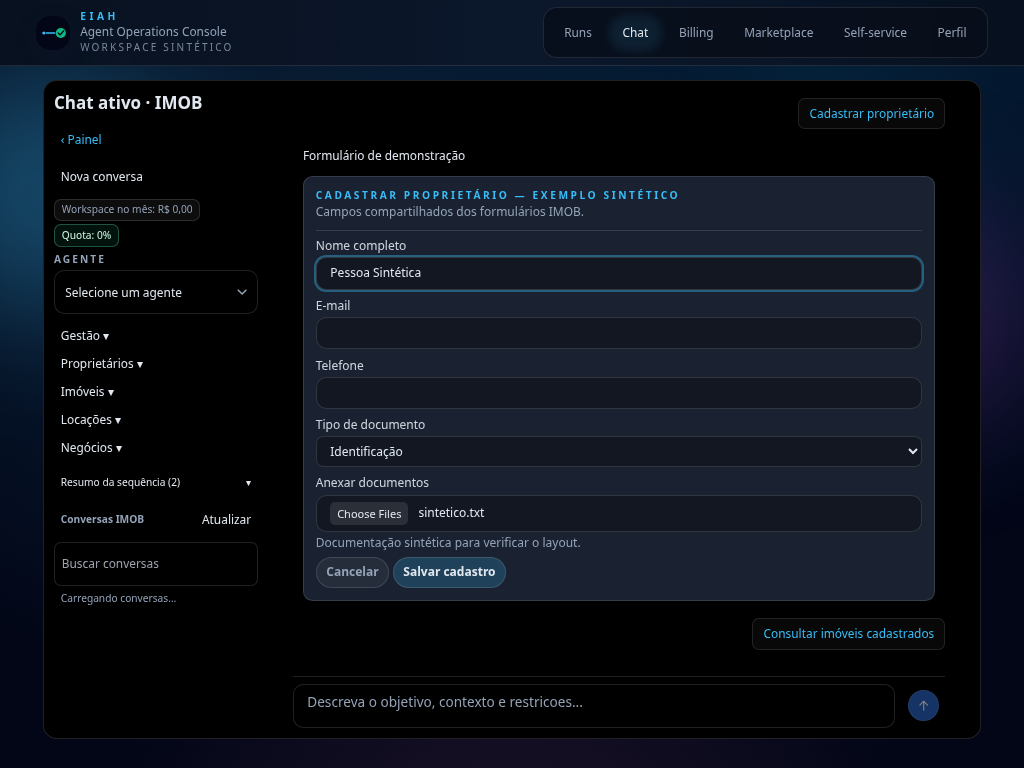
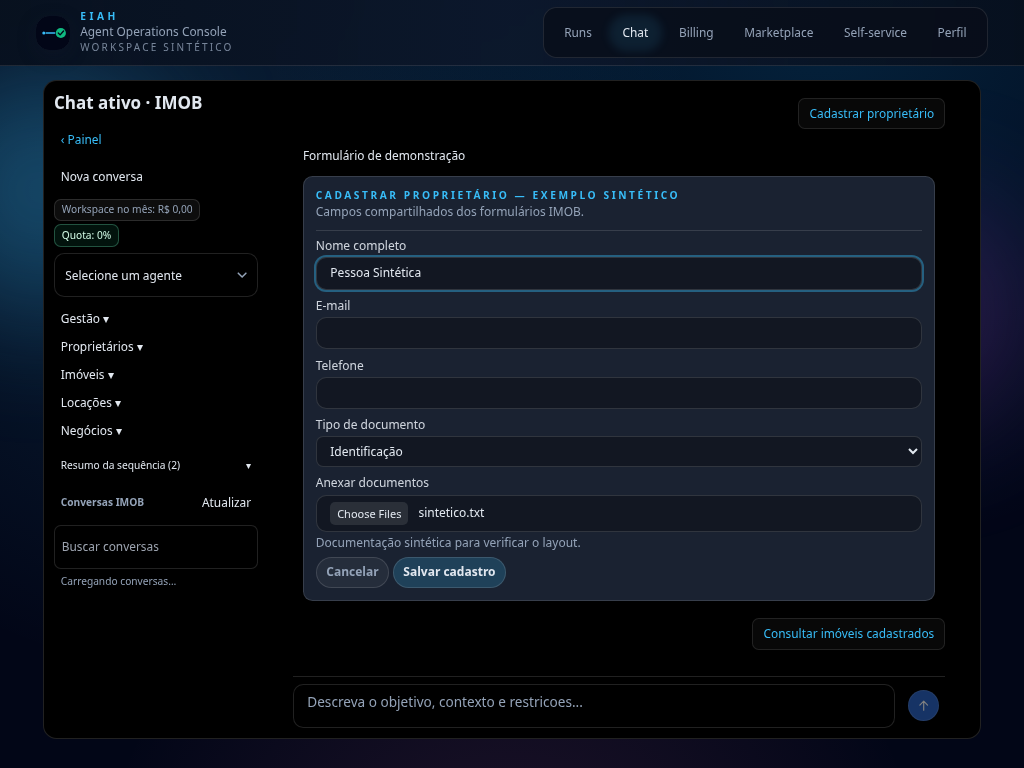
style(front-door): hide visible agent selector label

Changed region(s): [[0.0625, 0.3125, 0.1875, 0.7812], [0.1875, 0.625, 0.25, 0.6875]]

diff --git a/apps/web/src/components/agents/AgentSelect.tsx b/apps/web/src/components/agents/AgentSelect.tsx
@@ -52,7 +52,7 @@ export default function AgentSelect({
       <div className="flex flex-col gap-2">
         <label
           id="agent-label"
-          className="text-xs font-semibold uppercase tracking-[0.2em] text-muted-foreground"
+          className={inline ? "sr-only" : "text-xs font-semibold uppercase tracking-[0.2em] text-muted-foreground"}
         >
           Agente
         </label>

diff --git a/docs/evidence/imob-compact-forms/README.md b/docs/evidence/imob-compact-forms/README.md
@@ -5,3 +5,5 @@ Aplica-se ao ImobFormCard, compartilhado por /app/chat e /app/imob/chat, cobrind
 Execuções reais: 185 testes de formulário PASS. Quatro cenários Chromium PASS (320,390,1024,1440) com formulário e API sintéticos, texto/e-mail/telefone/lista/arquivo, preenchimento, seleção e anexo. Verifica padding/gap 70%, largura sem overflow, mobile legível e métricas equivalentes sem ancestral Front Door. Esta última é uma verificação de CSS do renderer compartilhado, não uma jornada completa na rota legada nem de todos os 21 fluxos. Capturas form-*.png e browser-results.json. Status parcial: CI/deploy pendentes.
 
 Build web com Node 22 PASS (build.log), com avisos existentes do bundler.
+
+Seletor de agente inline: rótulo visual Agente oculto com sr-only, mantendo associação aria-labelledby e placeholder Selecione um agente; nenhuma alteração em onValueChange, carregamento ou lista. QA verifica rótulo oculto e combobox com nome acessível Agente; agent-label-browser.log.
